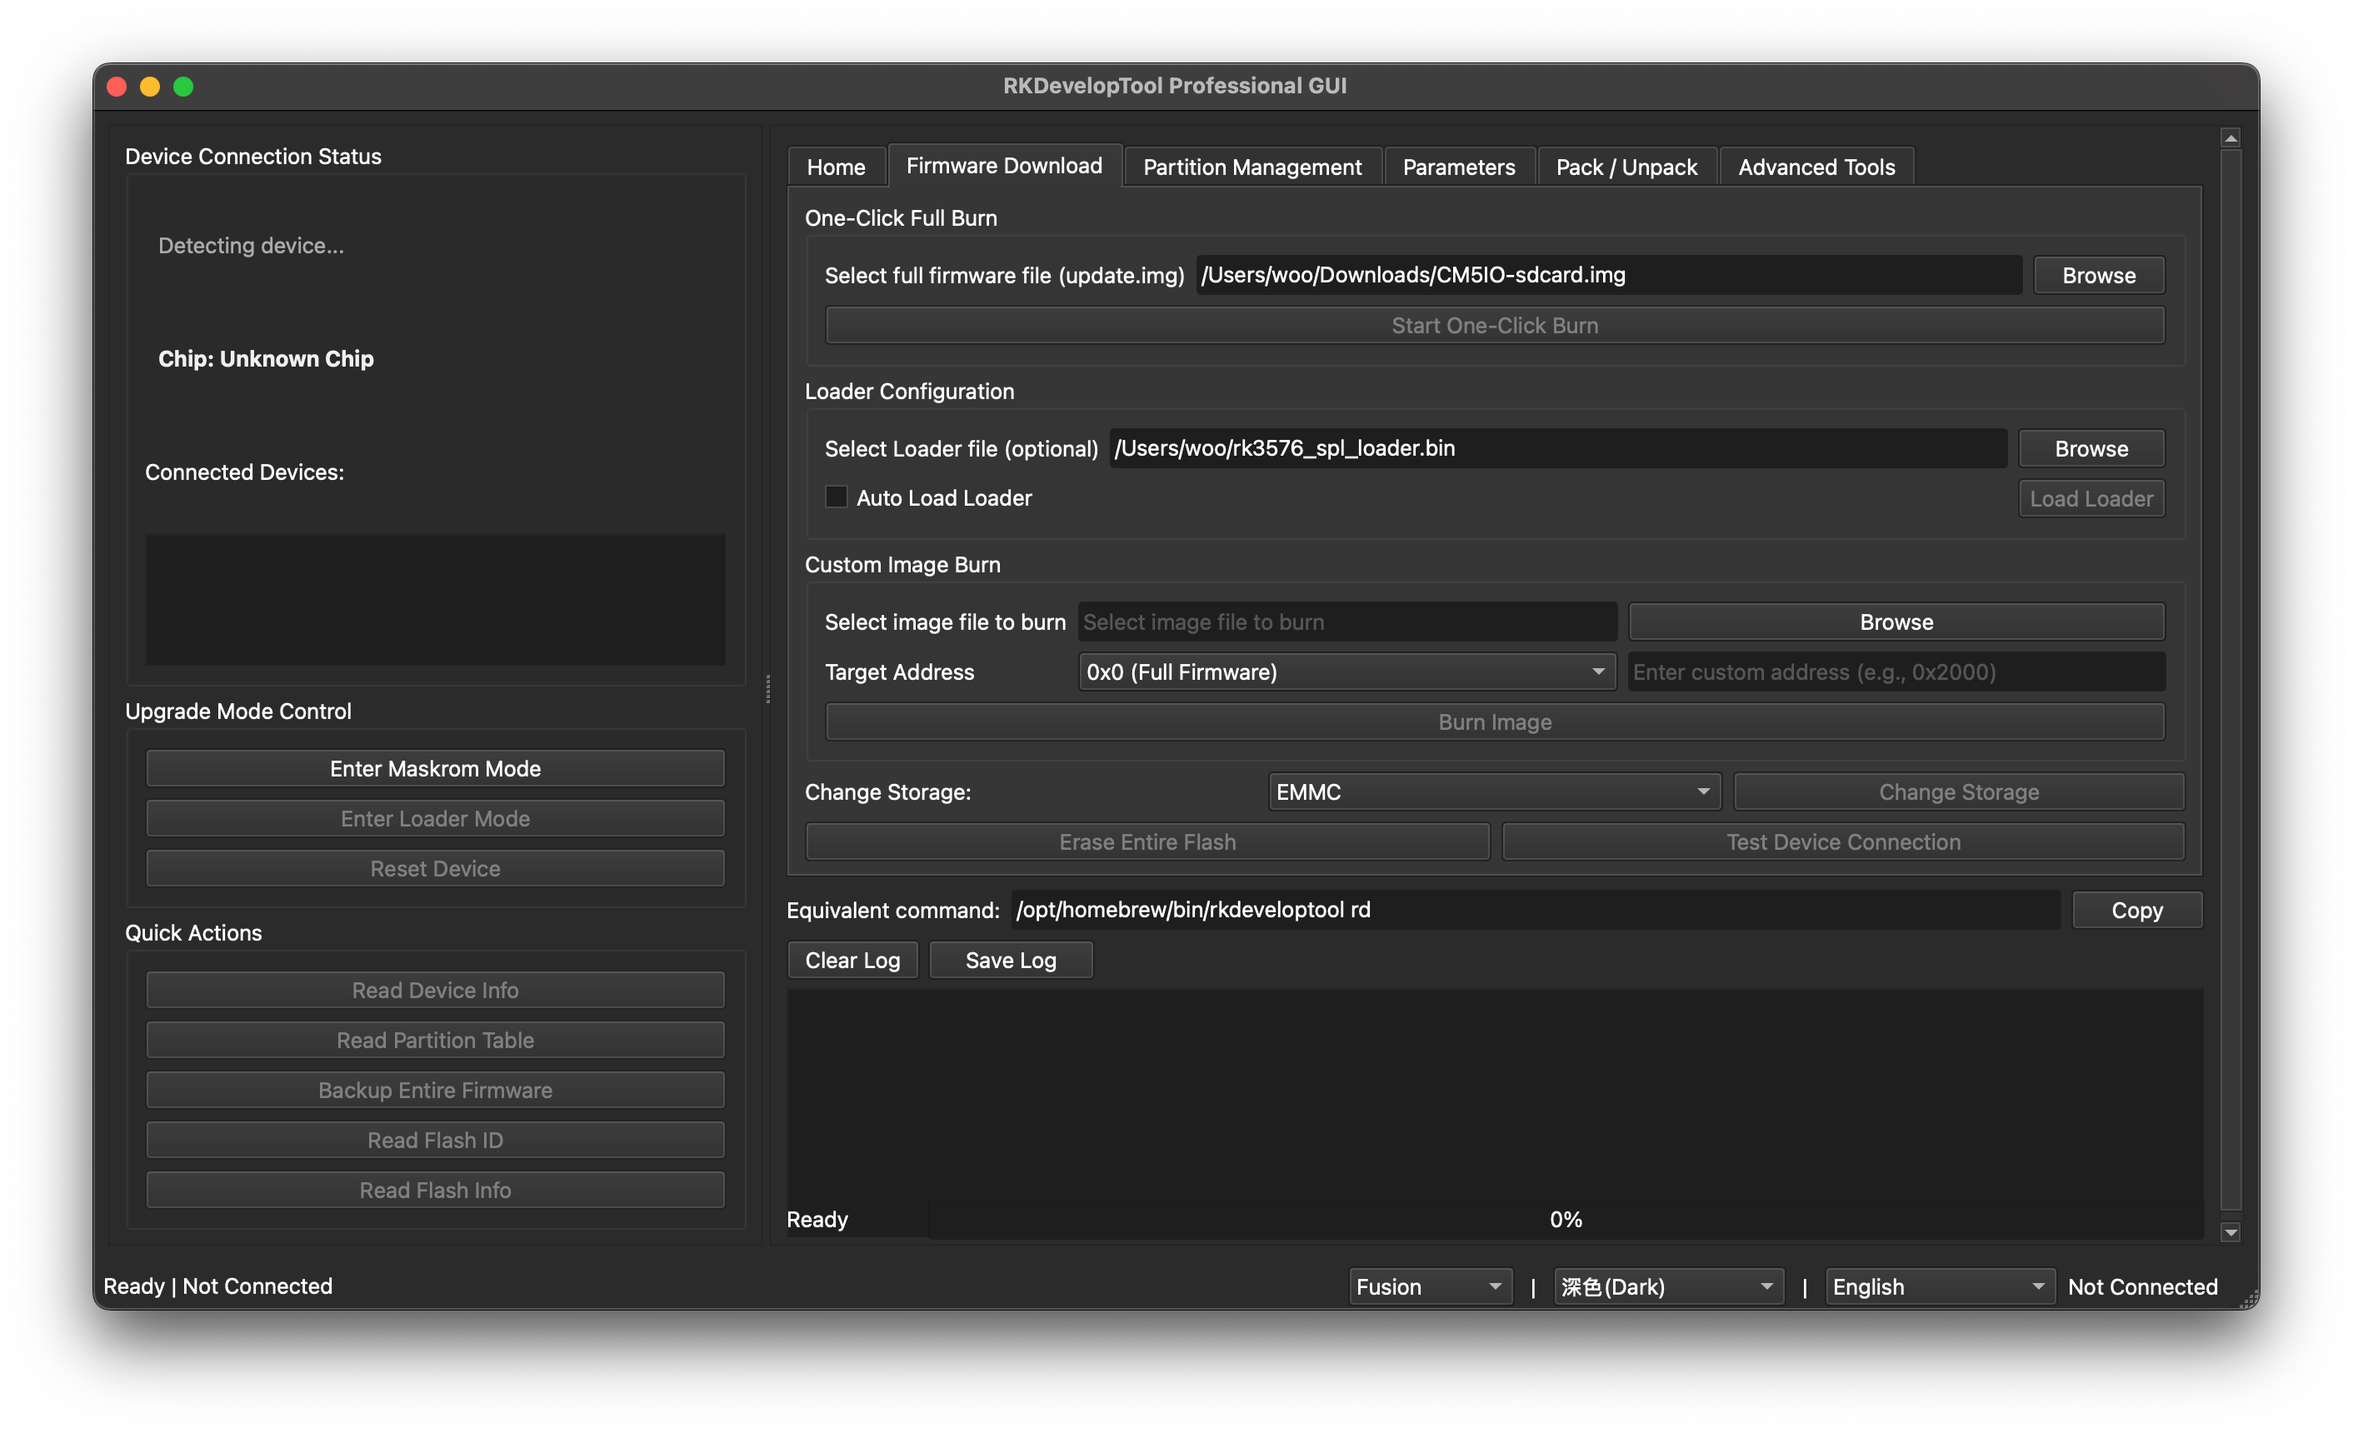
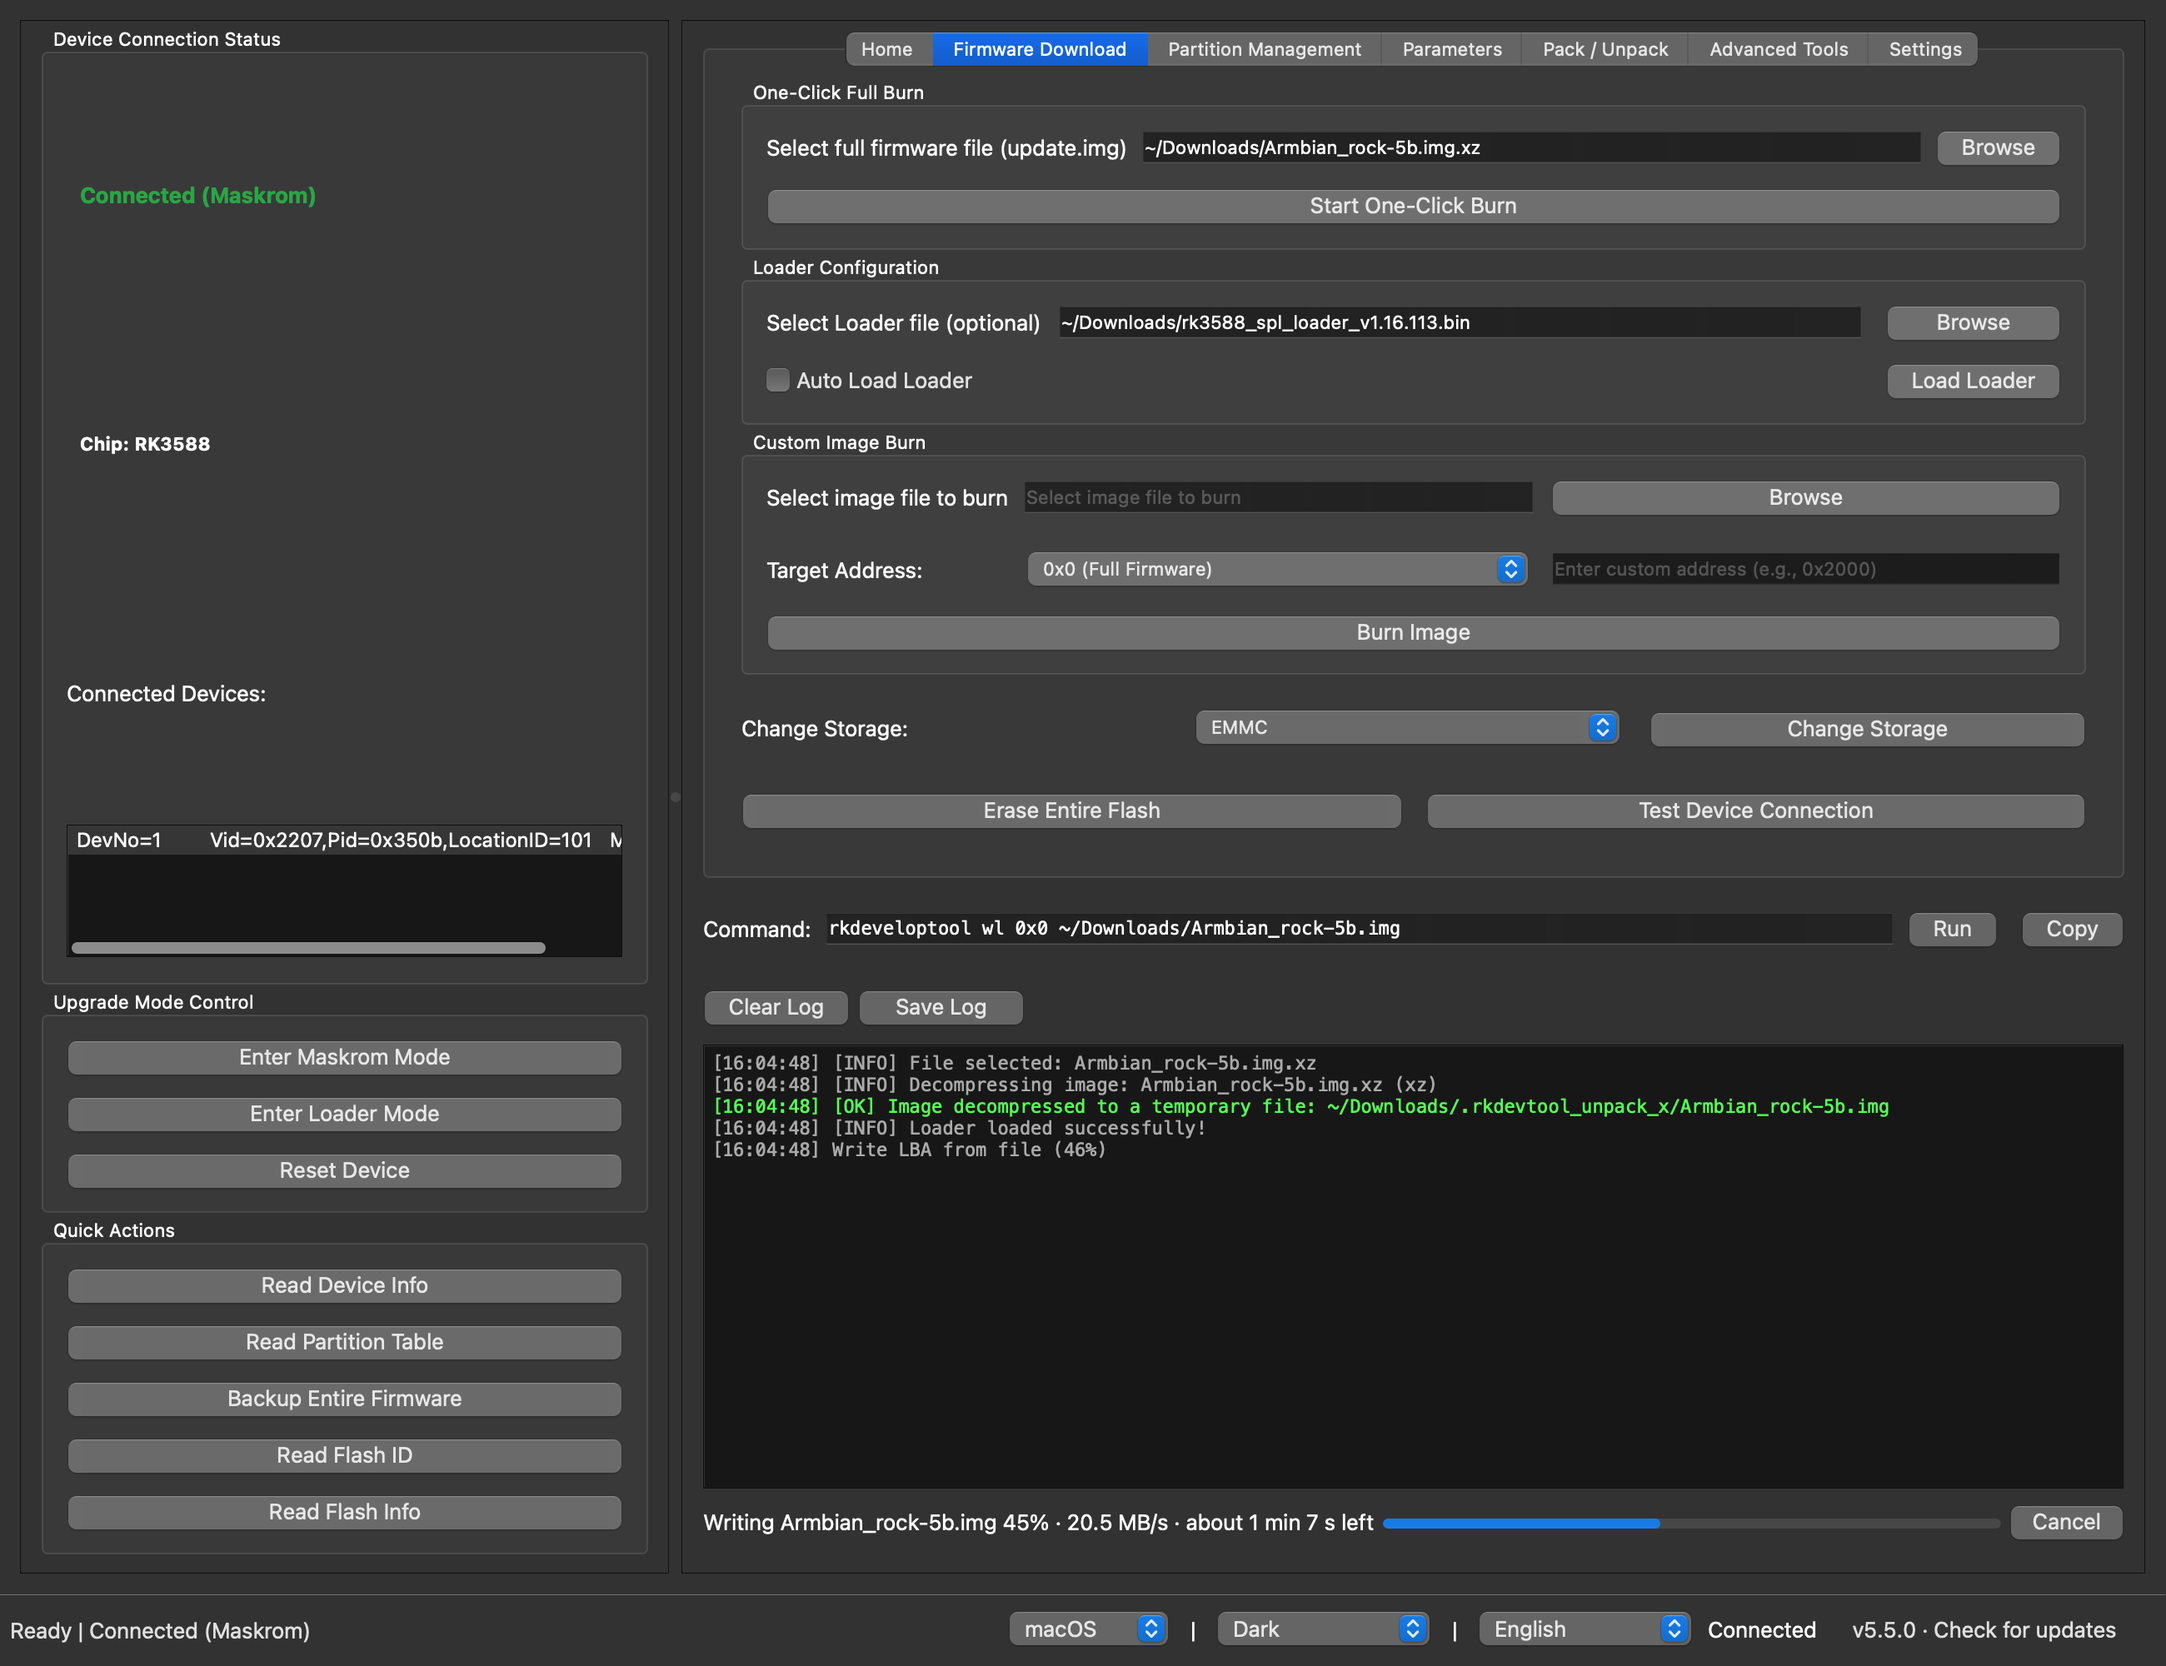
README: new screenshots, and describe what the app does now
The screenshots showed an old window title, the theme picker's mixed
"深色(Dark)" label and a local file path, and none of the recent work.
The README listed the original features only.

Screenshots (English and Chinese), rendered from a hidden Cocoa window
with example paths:
- home: a Maskrom RK3588 being written from an .img.xz, with overall
  progress, speed, time left and Cancel;
- preflight: the burn confirmation with its check results, computed for
  a real 2.5 GB example image;
- settings: the Settings tab.
home_*.png keep their names (the AppStream metadata points at
home_en.png); the other two are added to it as well.

Both READMEs now:
- say who it's for (Linux and macOS) and that packages bundle
  rkdeveloptool;
- list the features by what they do for you: compressed images, the
  check before writing, progress with speed and time left, Cancel,
  read-back verification, failure explanations, disconnect recovery,
  drag and drop, the command line, the Settings tab;
- explain Linux USB access (the deb/rpm install the udev rule; the
  command for AppImage and pip);
- walk through flashing a board from Maskrom, partitions, commands,
  Settings, and what to do when something fails;
- point to the update check in the bottom-right corner and Settings.
The Chinese README uses the Chinese UI labels instead of English ones.

diff --git a/README.md b/README.md
@@ -2,28 +2,34 @@
 
 [中文](README.zh.md) | English
 
-RKDevelopTool GUI is a graphical front-end for Rockchip's official rkdeveloptool. It provides an intuitive interface to perform firmware flashing, partition management, and device debugging tasks without using the command line.
+RKDevelopTool GUI is a graphical front-end for Rockchip's rkdeveloptool, for Linux and macOS. It flashes firmware to Rockchip boards, manages their partitions and recovers them from Maskrom, without the command line. The prebuilt packages include rkdeveloptool.
 
 **GitHub:** https://github.com/gahingwoo/RKDevelopTool-GUI
 
-![App Screenshot](docs/images/home_en.png)  
-*RKDevelopTool GUI Main Interface*
+![Writing an image: overall progress, speed and time left](docs/images/home_en.png)
 
 ## Features
 
-**Device Monitoring** - Automatically detects connected Rockchip devices and displays their current mode (Maskrom or Loader).
+**Flashing**
+- One-click flashing of an `update.img` (RKFW, including images over 4 GiB), a raw disk image, or a compressed `.img.xz`, `.img.gz` or `.img.bz2`, which is decompressed first.
+- A check before every write: device connected, Loader loaded, the right kind of image for the address, and enough storage for it. A failed check stops the write.
+- Progress for the whole write with speed and time left, a Cancel button, and an optional read-back verification afterwards.
+- An `update.img` brings its own Loader. For other images in Maskrom mode, the app offers to load yours and picks the right way to do it.
 
-**One-Click Firmware Flashing** - Simplifies the firmware flashing process. Just select your update.img file and click to begin.
+**When something goes wrong**
+- Failures come with the likely cause and what to try, instead of an exit code.
+- If the board disconnects mid-write, the app stops and tells you how to recover it.
 
-**Partition Management** - Read device partition tables and perform individual operations on specific partitions: flashing, backup, or erasing.
+**Everything else**
+- Drag a firmware, Loader or other file onto the window; it goes to the right field.
+- Partition table: read it, then flash, back up or erase single partitions.
+- A command line for any rkdeveloptool command, with history.
+- A Settings tab: style, theme, language, text size, which rkdeveloptool to use, a default Loader, and where to decompress images.
+- Update check against GitHub releases, and Chinese and English.
 
-**Mode Switching** - Quick buttons to enter Maskrom or Loader mode, and to reboot the device.
-
-**Real-time Logging** - View command execution logs and flashing progress in real time.
-
-**Multi-language Support** - Available in both Chinese and English.
-
-**Theme Support** - Automatic system theme detection with manual switching between light and dark modes. Supports multiple styles: Fusion, Windows, macOS, and others.
+| Check before writing | Settings |
+| --- | --- |
+| ![The burn confirmation with its pre-flight check](docs/images/preflight_en.png) | ![The Settings tab](docs/images/settings_en.png) |
 
 ---
 
@@ -40,14 +46,28 @@ They **bundle `rkdeveloptool`**, so there is nothing else to install.
 | Debian/Ubuntu (amd64 / arm64) | `rkdeveloptool-gui_*.deb` |
 | Fedora/openSUSE (x86_64 / aarch64) | `rkdeveloptool-gui-*.rpm` |
 
-The app shows its version in the bottom-right corner; click it to check for
-a newer release. It also checks by itself at most once a day (a single request
-to the GitHub Releases API, nothing else is sent); untick the box in the
-update dialog to turn that off.
+To update, click "Check for updates" in the bottom-right corner. The app also
+checks by itself at most once a day: one request to the GitHub Releases API,
+and nothing else is sent. You can turn that off in Settings.
 
 > **macOS note:** the app is not notarized yet, so on first launch macOS may say
 > it "cannot be opened". Right-click the app → **Open** → **Open**, or run
 > `xattr -cr /Applications/RKDevelopTool-GUI.app`.
+
+### Linux: USB access
+
+Without a udev rule only root can open a Rockchip device, and the board won't
+show up. The `.deb` and `.rpm` packages install the rule, so the logged-in user
+has access straight away. With the AppImage or pip, the app notices when the
+board is there but can't be opened, and gives you a one-line command to
+install the rule. You can also install it yourself:
+
+```bash
+echo 'SUBSYSTEM=="usb", ATTR{idVendor}=="2207", TAG+="uaccess"' | sudo tee /etc/udev/rules.d/70-rkdeveloptool-gui.rules
+sudo udevadm control --reload-rules && sudo udevadm trigger
+```
+
+Then unplug and replug the board.
 
 ---
 
@@ -119,33 +139,48 @@ Alternatively, you can install it via a [self-hosted package repository](https:/
 
 ## Usage
 
-### Basic Workflow
+### Flashing a board
 
-1. Connect your Rockchip device via USB
-2. The application will automatically detect the device and display its status
-3. Select the operation you need: firmware flashing, backup, or partition management
-4. Review the settings and confirm to proceed
+1. Put the board into Maskrom mode: hold its Maskrom (or Recovery) button while
+   you plug in USB or power it on. The status bar shows "Connected (Maskrom)".
+2. Drag the firmware onto the window, or choose it with **Browse** on the
+   **Firmware Download** tab. An `update.img`, a raw `.img` or a compressed
+   `.img.xz` all work.
+3. For anything other than an `update.img` (which brings its own Loader),
+   choose the Loader for your chip, for example `rk3588_spl_loader_*.bin`, and
+   load it when the app asks, or with **Load Loader**.
+4. Click **Start One-Click Burn**. Review the check results and confirm. For
+   a raw or compressed image you can also tick "Read back and verify".
+5. Wait for it to finish. The bar covers the whole flash, and **Cancel**
+   stops it, but a cancelled write has to be flashed again before the board
+   boots.
 
-### Firmware Flashing
+### Partitions
 
-1. Navigate to the "Firmware Download" tab
-2. Click "Browse" and select your update.img file
-3. Click "Start One-Click Burn" to begin
-4. Wait for the process to complete (progress bar shows current status)
+1. Load the Loader, then click **Read Partition Table**.
+2. On the **Partition Management** tab, pick a partition and flash, back up or
+   erase it.
 
-### Partition Management
+### Commands
 
-1. Go to the "Partition Management" tab
-2. Click "Read Partition Table" to retrieve partitions from the device
-3. Select a partition and choose your operation: flash, backup, or erase
-4. Confirm and wait for completion
+The **Command** field above the log shows the rkdeveloptool command behind
+each button. You can type or edit a command there and run it with Enter, for
+example `ld`, `rci` or `ppt`. Commands that write or erase ask first.
 
-### Theme and Style Selection
+### Settings
 
-The status bar at the bottom provides quick access to:
-- Style selector: Choose between Fusion, Windows, macOS, and other available styles
-- Theme selector: Switch between Automatic, Dark, and Light themes
-- Language selector: Choose between Chinese and English
+The **Settings** tab (Ctrl+, or ⌘,) has the style, theme, language and text
+size, the rkdeveloptool binary to use, a default Loader, where to decompress
+images, debug logging and the update check. The style, theme and language
+pickers are also in the status bar.
+
+### If something fails
+
+The app explains the most common rkdeveloptool errors: no device found, the
+device can't be opened, the wrong Loader, a write that failed. Each comes with
+what to try, and rkdeveloptool's own output is under **Show Details**. To
+report a problem, use **Export diagnostics…** in Settings and attach the file
+to an issue.
 
 ---
 
@@ -155,7 +190,7 @@ This software is a graphical wrapper around rkdeveloptool. Firmware flashing is 
 
 Before using this tool:
 - Ensure you have a backup of important data
-- Verify that your device has sufficient battery
+- Use a reliable USB cable and a stable power supply for the board
 - Understand the implications of each operation
 - Consult device-specific documentation if needed
 
